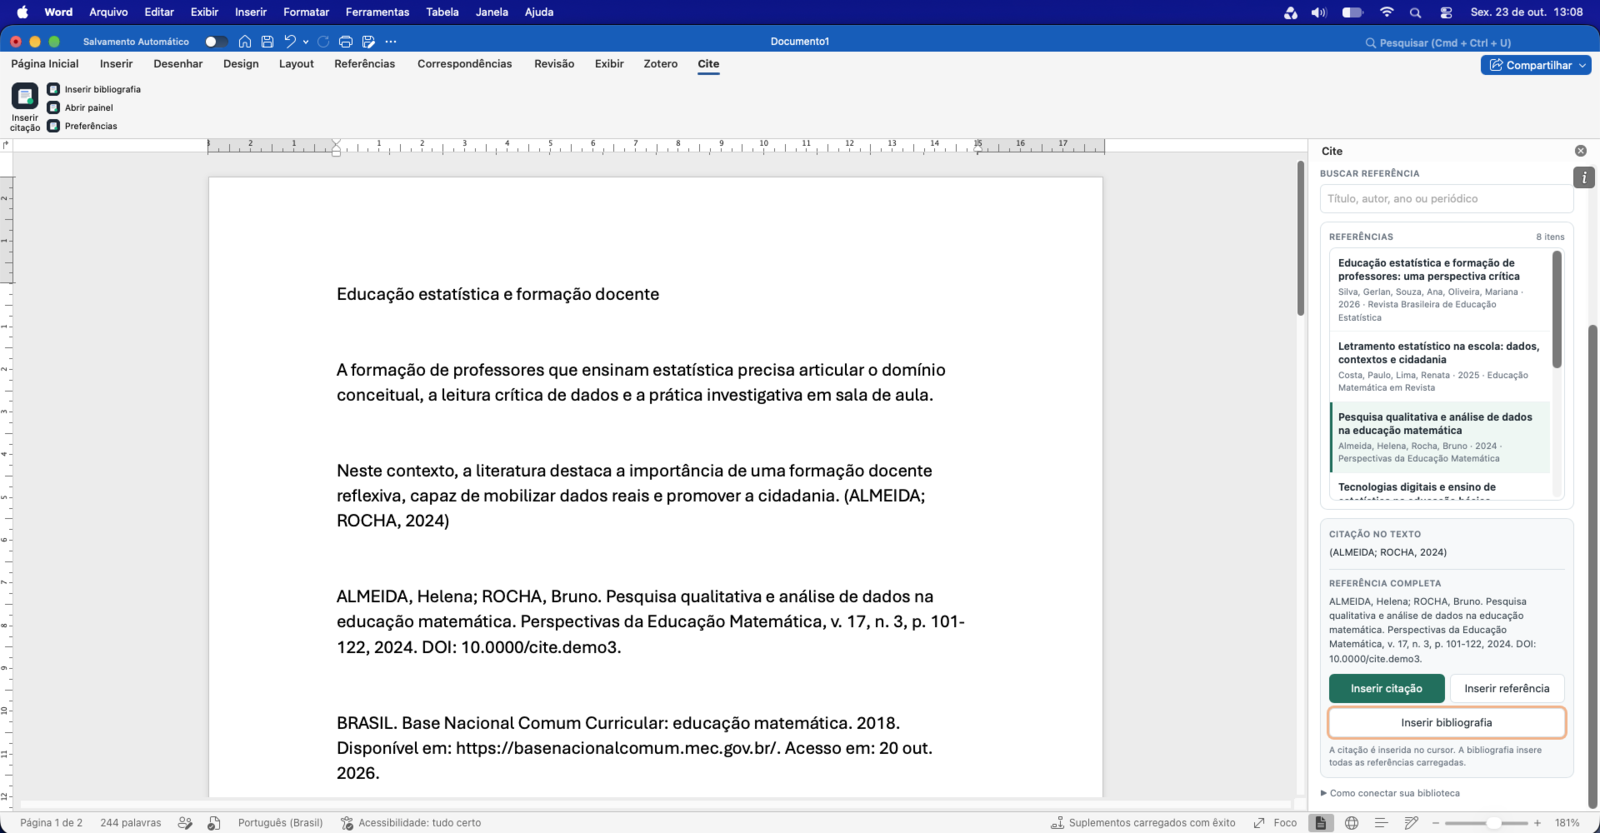
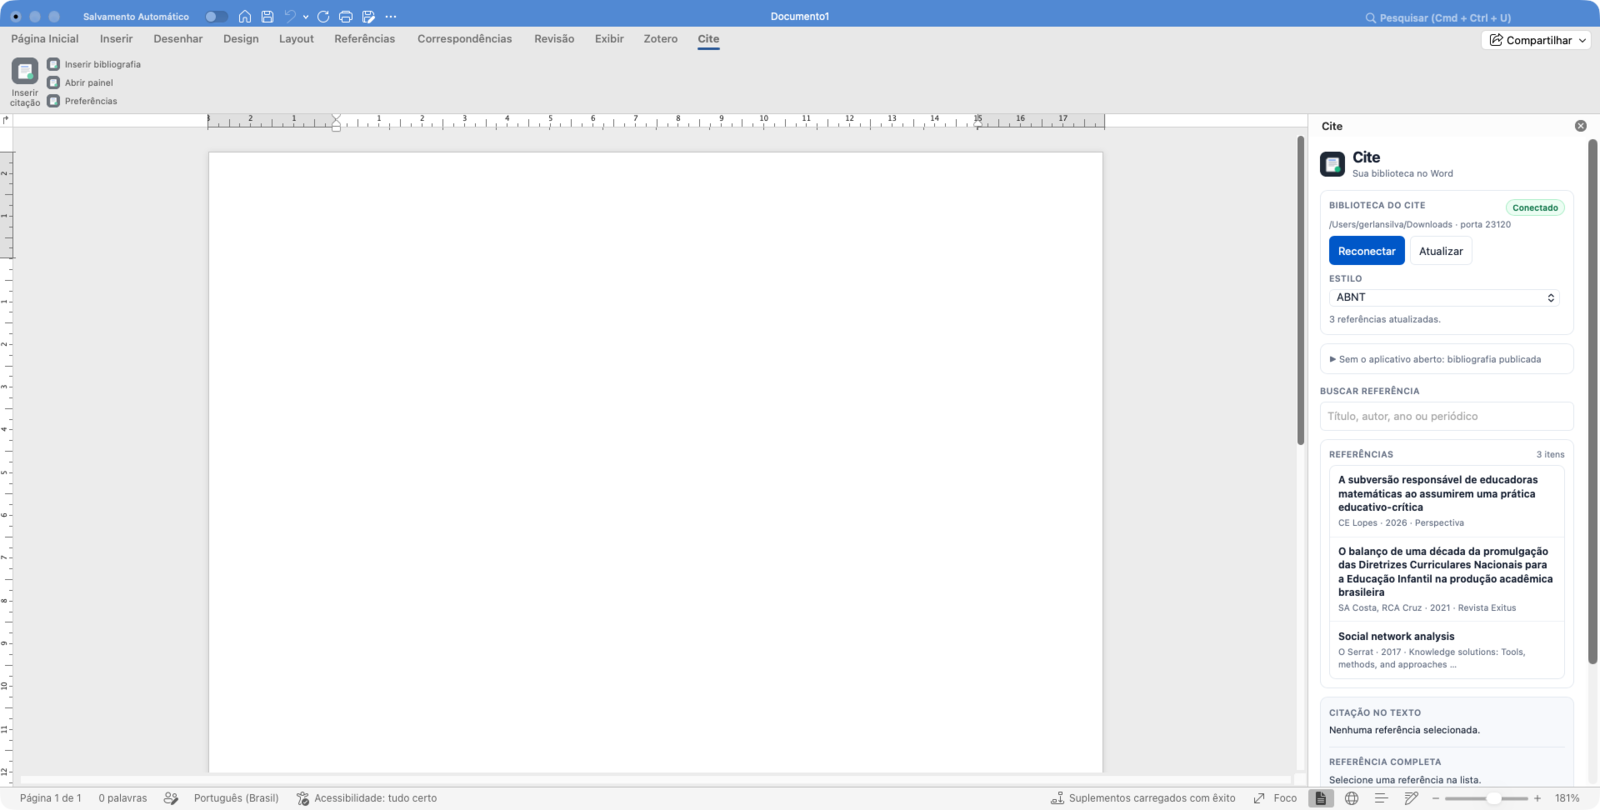
Alinha a paleta do Word e do Google Docs ao azul do Cite
O painel do Word e a barra do Google Docs passam a usar os mesmos
tokens do aplicativo (#0052cc). O manifesto agora inclui a versão na
URL do painel para evitar cache antigo no Word, e os testes deixam de
tocar na instalação real do add-in.

diff --git a/integrations/word/taskpane.html b/integrations/word/taskpane.html
@@ -6,7 +6,7 @@
   <title>Cite</title>
   <script src="https://appsforoffice.microsoft.com/lib/1/hosted/office.js"></script>
   <style>
-    :root { color-scheme: light; --accent: #1f6f5c; --accent-dark: #175546; --accent-soft: #eef7f3; --line: #d9e1e6; --muted: #68727f; --text: #202a33; --paper: #ffffff; --surface: #f7f9fa; --danger: #b42318; }
+    :root { color-scheme: light; --accent: #0052cc; --accent-dark: #0043a8; --accent-soft: #eaf1ff; --line: #e4e9f0; --muted: #667085; --faint: #98a2b3; --text: #172033; --paper: #ffffff; --surface: #f7f9fc; --danger: #b42318; --success: #067647; --success-soft: #ecfdf3; --success-line: #abefc6; }
     * { box-sizing: border-box; }
     html, body { margin: 0; min-width: 0; }
     body { padding: 14px; font: 13px/1.45 -apple-system, BlinkMacSystemFont, "Segoe UI", sans-serif; color: var(--text); background: var(--paper); }
@@ -15,13 +15,13 @@
     .brand h1 { font-size: 18px; line-height: 1.1; margin: 0; letter-spacing: -.02em; }
     .brand p { margin: 2px 0 0; color: var(--muted); font-size: 11px; }
     .card { border: 1px solid var(--line); border-radius: 9px; padding: 10px; margin-top: 10px; background: var(--paper); }
-    .source { background: linear-gradient(180deg, #fbfdfc 0%, #f4f8f6 100%); }
+    .source { background: linear-gradient(180deg, #fbfcff 0%, #f2f6ff 100%); }
     .label { display: block; color: var(--muted); font-size: 10.5px; font-weight: 600; letter-spacing: .03em; text-transform: uppercase; margin-bottom: 5px; }
     input, select, button { font: inherit; }
     input, select { width: 100%; padding: 7px 8px; border: 1px solid var(--line); border-radius: 6px; background: var(--paper); color: var(--text); }
-    input:focus, select:focus { outline: 2px solid #c7e5db; outline-offset: 0; border-color: var(--accent); }
+    input:focus, select:focus { outline: 2px solid #d1e0ff; outline-offset: 0; border-color: var(--accent); }
     button { border: 1px solid var(--line); border-radius: 6px; background: var(--paper); color: var(--text); padding: 7px 10px; cursor: pointer; white-space: nowrap; }
-    button:hover:not(:disabled) { border-color: #b8c7c2; background: #fbfdfc; }
+    button:hover:not(:disabled) { border-color: #c9d2de; background: var(--surface); }
     button.primary { background: var(--accent); border-color: var(--accent); color: #fff; }
     button.primary:hover:not(:disabled) { background: var(--accent-dark); border-color: var(--accent-dark); }
     button:disabled { opacity: .45; cursor: default; }
@@ -35,7 +35,7 @@
     .list-head .label { margin: 0; }
     .count { color: var(--muted); font-size: 10.5px; }
     #list { max-height: 39vh; overflow: auto; border: 1px solid var(--line); border-radius: 8px; background: var(--paper); }
-    .item { display: block; width: 100%; border: 0; border-bottom: 1px solid #eef2f3; border-radius: 0; padding: 9px 10px; text-align: left; background: transparent; white-space: normal; }
+    .item { display: block; width: 100%; border: 0; border-bottom: 1px solid #eef1f6; border-radius: 0; padding: 9px 10px; text-align: left; background: transparent; white-space: normal; }
     .item:last-child { border-bottom: 0; }
     .item:hover { background: var(--surface); }
     .item.selected { background: var(--accent-soft); box-shadow: inset 3px 0 0 var(--accent); }
@@ -45,7 +45,7 @@
     .preview-card { background: var(--surface); }
     .preview-block + .preview-block { margin-top: 9px; padding-top: 9px; border-top: 1px solid var(--line); }
     .preview-text { min-height: 20px; font-size: 11.5px; line-height: 1.5; }
-    .preview-text.reference { color: #3c4852; }
+    .preview-text.reference { color: #344054; }
     .actions { display: grid; grid-template-columns: 1fr 1fr; gap: 6px; margin-top: 10px; }
     .actions .wide { grid-column: 1 / -1; }
     .hint { margin: 8px 0 0; color: var(--muted); font-size: 10.5px; }
@@ -55,7 +55,7 @@
     details p { margin: 6px 0 0; }
     .local-head { display: flex; align-items: center; justify-content: space-between; gap: 8px; }
     .state { padding: 2px 7px; border: 1px solid var(--line); border-radius: 999px; background: var(--surface); color: var(--muted); font-size: 10px; font-weight: 600; }
-    .state.on { border-color: #c7e5db; background: var(--accent-soft); color: #0f7b5f; }
+    .state.on { border-color: var(--success-line); background: var(--success-soft); color: var(--success); }
     .state.off { color: var(--danger); border-color: #f3c7c2; background: #fef4f3; }
     .local-note { margin: 2px 0 0; color: var(--muted); font-size: 10.5px; line-height: 1.45; word-break: break-all; }
     .source-details { margin-top: 10px; padding: 10px; border: 1px solid var(--line); border-radius: 9px; background: var(--paper); }

diff --git a/integrations/google-docs/Sidebar.html b/integrations/google-docs/Sidebar.html
@@ -4,21 +4,25 @@
   <base target="_top">
   <meta charset="utf-8">
   <style>
-    :root { --accent: #1f6f5c; --line: #d9dee5; --muted: #68727f; --text: #222a33; }
+    :root { --accent: #0052cc; --accent-dark: #0043a8; --accent-soft: #eaf1ff; --line: #e4e9f0; --muted: #667085; --text: #172033; --surface: #f7f9fc; }
     * { box-sizing: border-box; }
     body { margin: 0; padding: 14px; font: 13px/1.45 -apple-system, BlinkMacSystemFont, "Segoe UI", sans-serif; color: var(--text); background: #fff; }
     h1 { font-size: 17px; margin: 0 0 2px; }
     .muted { color: var(--muted); font-size: 11px; }
     .row { display: flex; gap: 6px; margin-top: 8px; }
     input, select, button { font: inherit; }
-    input, select { width: 100%; padding: 7px 8px; border: 1px solid var(--line); border-radius: 5px; background: #fff; }
-    button { border: 1px solid var(--line); border-radius: 5px; background: #fff; padding: 7px 10px; cursor: pointer; }
+    input, select { width: 100%; padding: 7px 8px; border: 1px solid var(--line); border-radius: 5px; background: #fff; color: var(--text); }
+    input:focus, select:focus { outline: 2px solid #d1e0ff; outline-offset: 0; border-color: var(--accent); }
+    button { border: 1px solid var(--line); border-radius: 5px; background: #fff; color: var(--text); padding: 7px 10px; cursor: pointer; }
+    button:hover:not(:disabled) { border-color: #c9d2de; background: var(--surface); }
     button.primary { background: var(--accent); border-color: var(--accent); color: #fff; }
+    button.primary:hover:not(:disabled) { background: var(--accent-dark); border-color: var(--accent-dark); }
     button:disabled { opacity: .5; cursor: default; }
     .card { border: 1px solid var(--line); border-radius: 7px; padding: 10px; margin-top: 10px; }
-    .item { border-bottom: 1px solid #eef1f4; padding: 8px 0; cursor: pointer; }
+    .item { border-bottom: 1px solid #eef1f6; padding: 8px 0; cursor: pointer; }
     .item:last-child { border-bottom: 0; }
-    .item:hover, .item.selected { background: #f3f8f6; }
+    .item:hover, .item.selected { background: var(--accent-soft); }
+    .item.selected { box-shadow: inset 3px 0 0 var(--accent); }
     .item strong { display: block; font-size: 12.5px; }
     .item span { display: block; color: var(--muted); font-size: 11px; margin-top: 2px; }
     #list { max-height: 43vh; overflow: auto; }

diff --git a/word-addin.js b/word-addin.js
@@ -143,9 +143,16 @@ function createWordAddin({ appDataDir, wordDir, getVersion, getLibraryPath, getP
   function writeManifest(port) {
     if (!wefDir) throw new Error('pasta de suplementos do Word não encontrada');
     if (!fs.existsSync(templatePath)) throw new Error('modelo do manifesto não encontrado');
+    const version = encodeURIComponent(getVersion?.() || '0');
     const template = fs.readFileSync(templatePath, 'utf8');
+    const manifest = template
+      .replace(/__PORT__/g, String(port))
+      .replace(/(taskpane|commands)\.html(\?[a-zA-Z0-9_=&-]+)?/g, (match, name, query) => {
+        const extra = query ? `&amp;${query.slice(1)}` : '';
+        return `${name}.html?v=${version}${extra}`;
+      });
     fs.mkdirSync(wefDir, { recursive: true });
-    fs.writeFileSync(manifestPath, template.replace(/__PORT__/g, String(port)));
+    fs.writeFileSync(manifestPath, manifest);
   }
 
   async function ensureServer(port) {
@@ -196,7 +203,7 @@ function createWordAddin({ appDataDir, wordDir, getVersion, getLibraryPath, getP
       }
       const port = await ensureServer(preferredPort);
       writeManifest(port);
-      writeSettings({ installed: true, trusted: true, port, installedAt: new Date().toISOString() });
+      writeSettings({ installed: true, trusted: true, port, version: getVersion?.() || '', installedAt: new Date().toISOString() });
       lastError = '';
       return { ok: true, status: status() };
     } catch (err) {
@@ -209,10 +216,11 @@ function createWordAddin({ appDataDir, wordDir, getVersion, getLibraryPath, getP
     if (!settings.installed || !wefDir) return status();
     try {
       await ensureServer(preferredPort);
-      if (connector.port !== settings.port) {
-        writeManifest(connector.port);
-        writeSettings({ port: connector.port });
-        console.log(`Manifesto do Word atualizado para a porta ${connector.port}.`);
+      const version = getVersion?.() || '';
+      writeManifest(connector.port);
+      if (connector.port !== settings.port || settings.version !== version) {
+        writeSettings({ port: connector.port, version });
+        console.log(`Manifesto do Word atualizado para a porta ${connector.port} (versão ${version}).`);
       }
       lastError = '';
     } catch (err) {

diff --git a/tests/word-addin.test.js b/tests/word-addin.test.js
@@ -51,7 +51,9 @@ test('installs the local Word add-in and serves the pane over HTTPS', async () =
   const manifestPath = path.join(wefDir, 'cite-word.xml');
   assert.equal(fs.existsSync(manifestPath), true);
   const manifest = fs.readFileSync(manifestPath, 'utf8');
-  assert.match(manifest, /https:\/\/localhost:23210\/taskpane\.html/);
+  assert.match(manifest, /https:\/\/localhost:23210\/taskpane\.html\?v=0\.2\.0/);
+  assert.match(manifest, /taskpane\.html\?v=0\.2\.0&amp;mode=citation/);
+  assert.doesNotMatch(manifest, /\?v=[^"<]*&(?!amp;)/);
   assert.match(manifest, /b7f3a9c2-6d41-4e8b-9c2a-1f0d5e7a3b64/);
   assert.doesNotMatch(manifest, /__PORT__/);
 

diff --git a/CHANGELOG.md b/CHANGELOG.md
@@ -13,6 +13,12 @@
 - Tela de recuperação quando a pasta da biblioteca é excluída, movida ou fica sem permissão, com as opções **Usar a biblioteca padrão** e **Escolher outra pasta**.
 - Testes de primeira execução e de biblioteca ausente.
 
+### Corrigido
+
+- Paleta do painel do Word e do Google Docs alinhada ao azul do aplicativo.
+- Painel do Word passou a recarregar os arquivos atualizados a cada versão, sem cache antigo.
+- Testes não alteram mais a instalação real do add-in no Word.
+
 ## 0.2.0
 
 ### Adicionado
